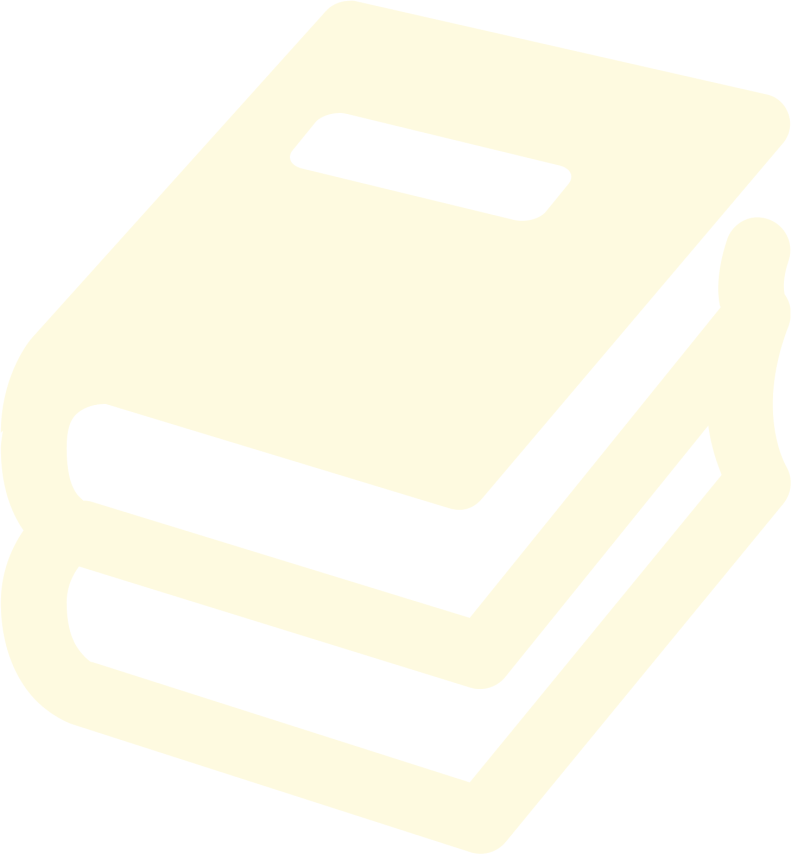
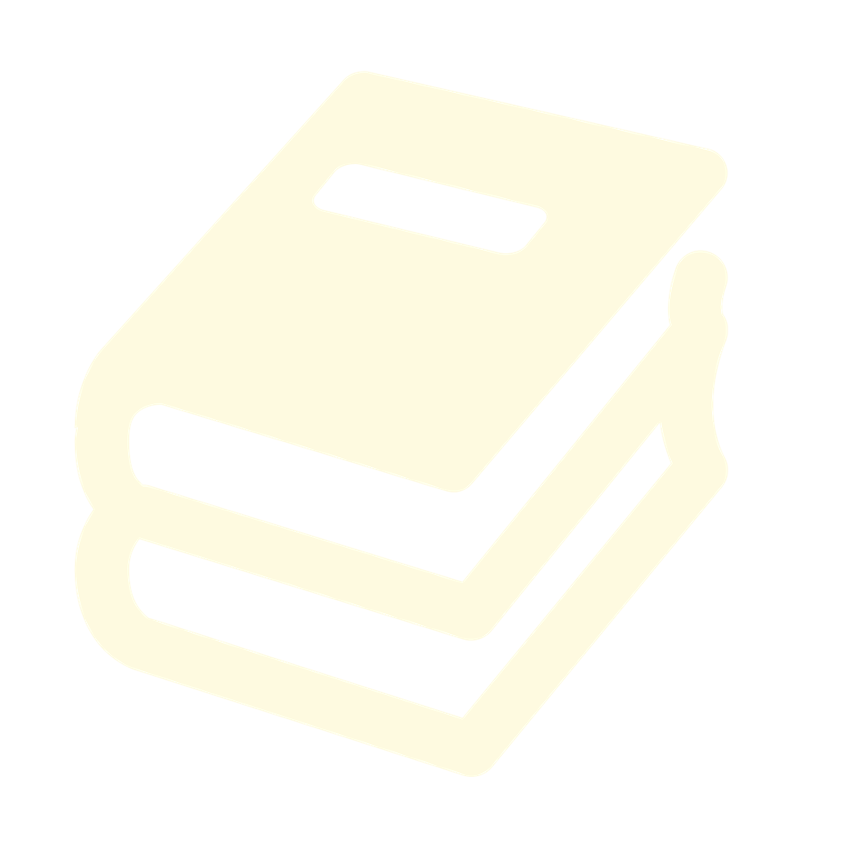
added all symbols with default one, adjusted symbol css

diff --git a/my-project/src/components/CategorySymbols.jsx b/my-project/src/components/CategorySymbols.jsx
@@ -1,4 +1,21 @@
 export const categorySymbols = {
+    "9": "src/images/categories/symbol_general.png",
     "10": "src/images/categories/symbol_book.png",
     "11": "src/images/categories/symbol_movie.png",
+    "12": "src/images/categories/symbol_music.png",
+    "13": "src/images/categories/symbol_theater.png",
+    "14": "src/images/categories/symbol_tv.png",
+    "15": "src/images/categories/symbol_vgames.png",
+    "16": "src/images/categories/symbol_bgames.png",
+    "17": "src/images/categories/symbol_scienceN.png",
+    "18": "src/images/categories/symbol_pc.png",
+    "19": "src/images/categories/symbol_math.png",
+    "20": "src/images/categories/symbol_myth.png",
+    "21": "src/images/categories/symbol_sport.png",
+    "22": "src/images/categories/symbol_geo.png",
+    "23": "src/images/categories/symbol_history.png",
+    "24": "src/images/categories/symbol_politics.png",
+    "25": "src/images/categories/symbol_art.png",
+    "26": "src/images/categories/symbol_celeb.png",
+    "27": "src/images/categories/symbol_animal.png",
 };

diff --git a/my-project/src/components/QuizMain.jsx b/my-project/src/components/QuizMain.jsx
@@ -23,7 +23,7 @@ export const QuizMain = ({ entity, setEntityIndex, score, setScore, category }) 
         setEntityIndex(prev => prev + 1);
     };
 
-    const symbolSrc = categorySymbols[category] || "src/images/logo_light.png";
+    const symbolSrc = categorySymbols[category] || "src/images/categories/symbol_any.png";
 
     return (
         <>

diff --git a/my-project/src/components/QuizMain.module.css b/my-project/src/components/QuizMain.module.css
@@ -109,9 +109,11 @@
 
 .categorySymbol {
   width: auto;
-  height: 70px;
+  height: 60px;
   margin-left:20px;
   margin-right: 10px;
+  margin-top: 10px;
+  margin-bottom: 10px;
 }
 
 .bar {
